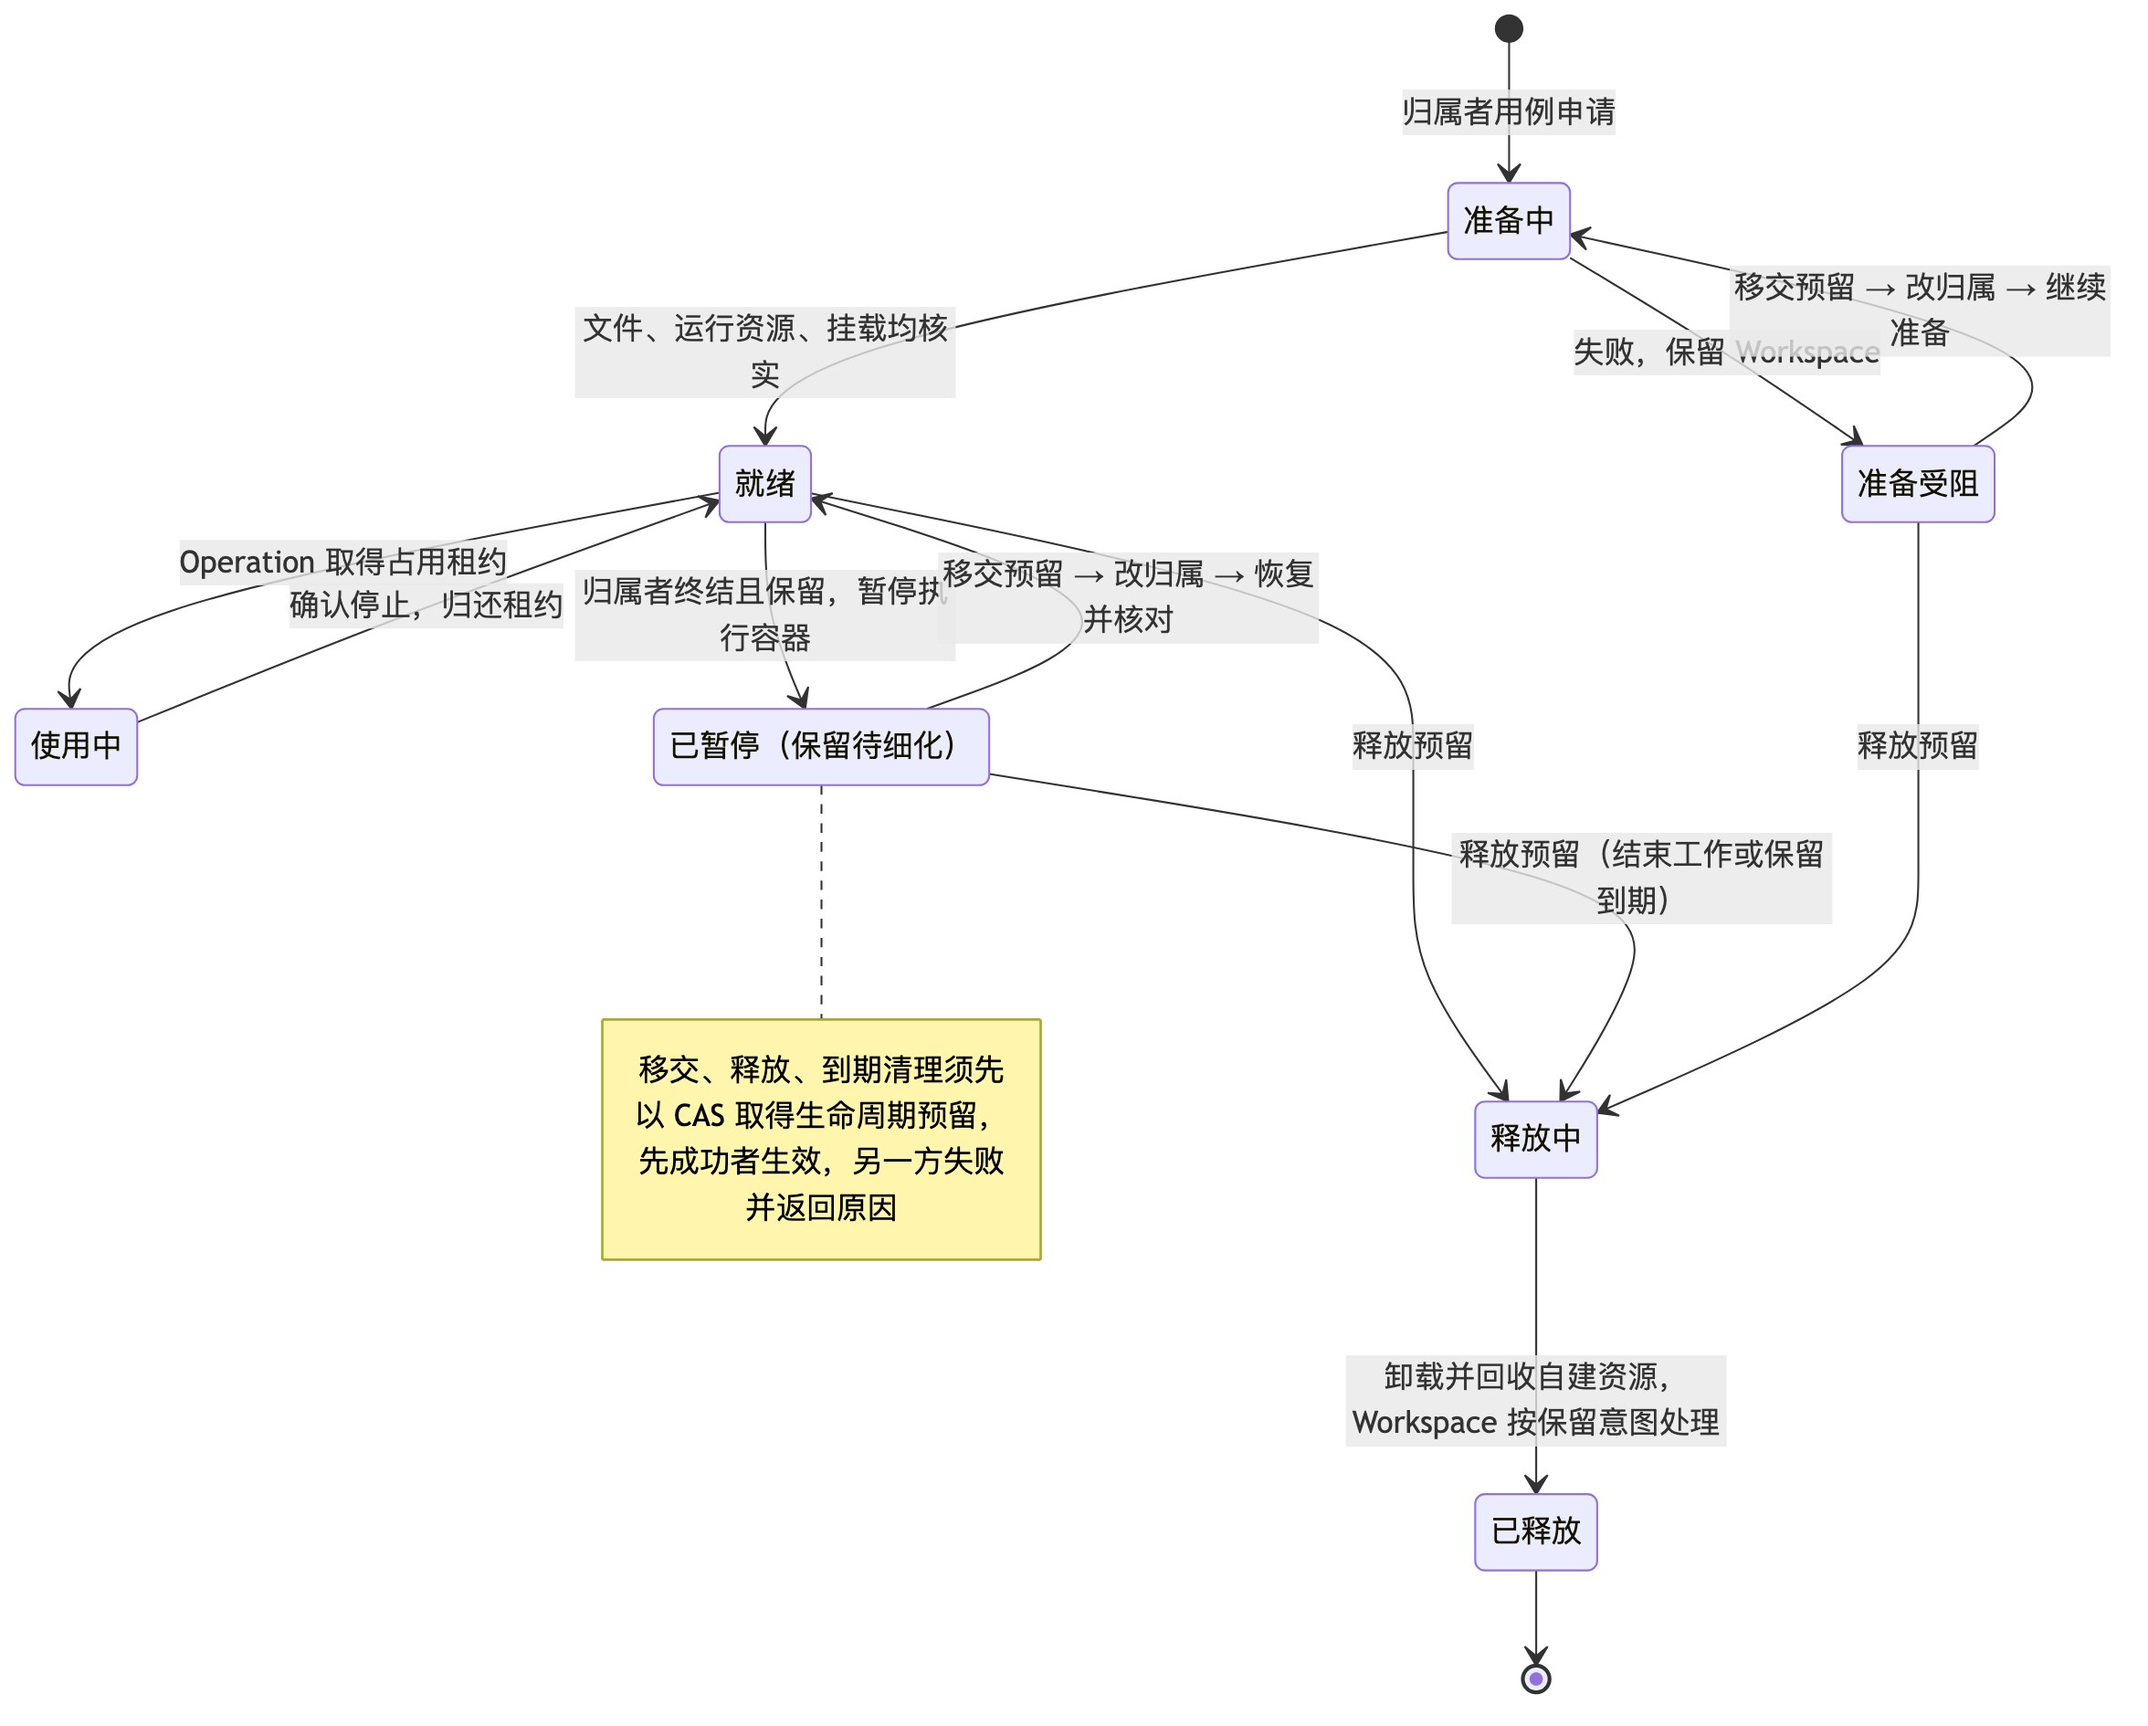
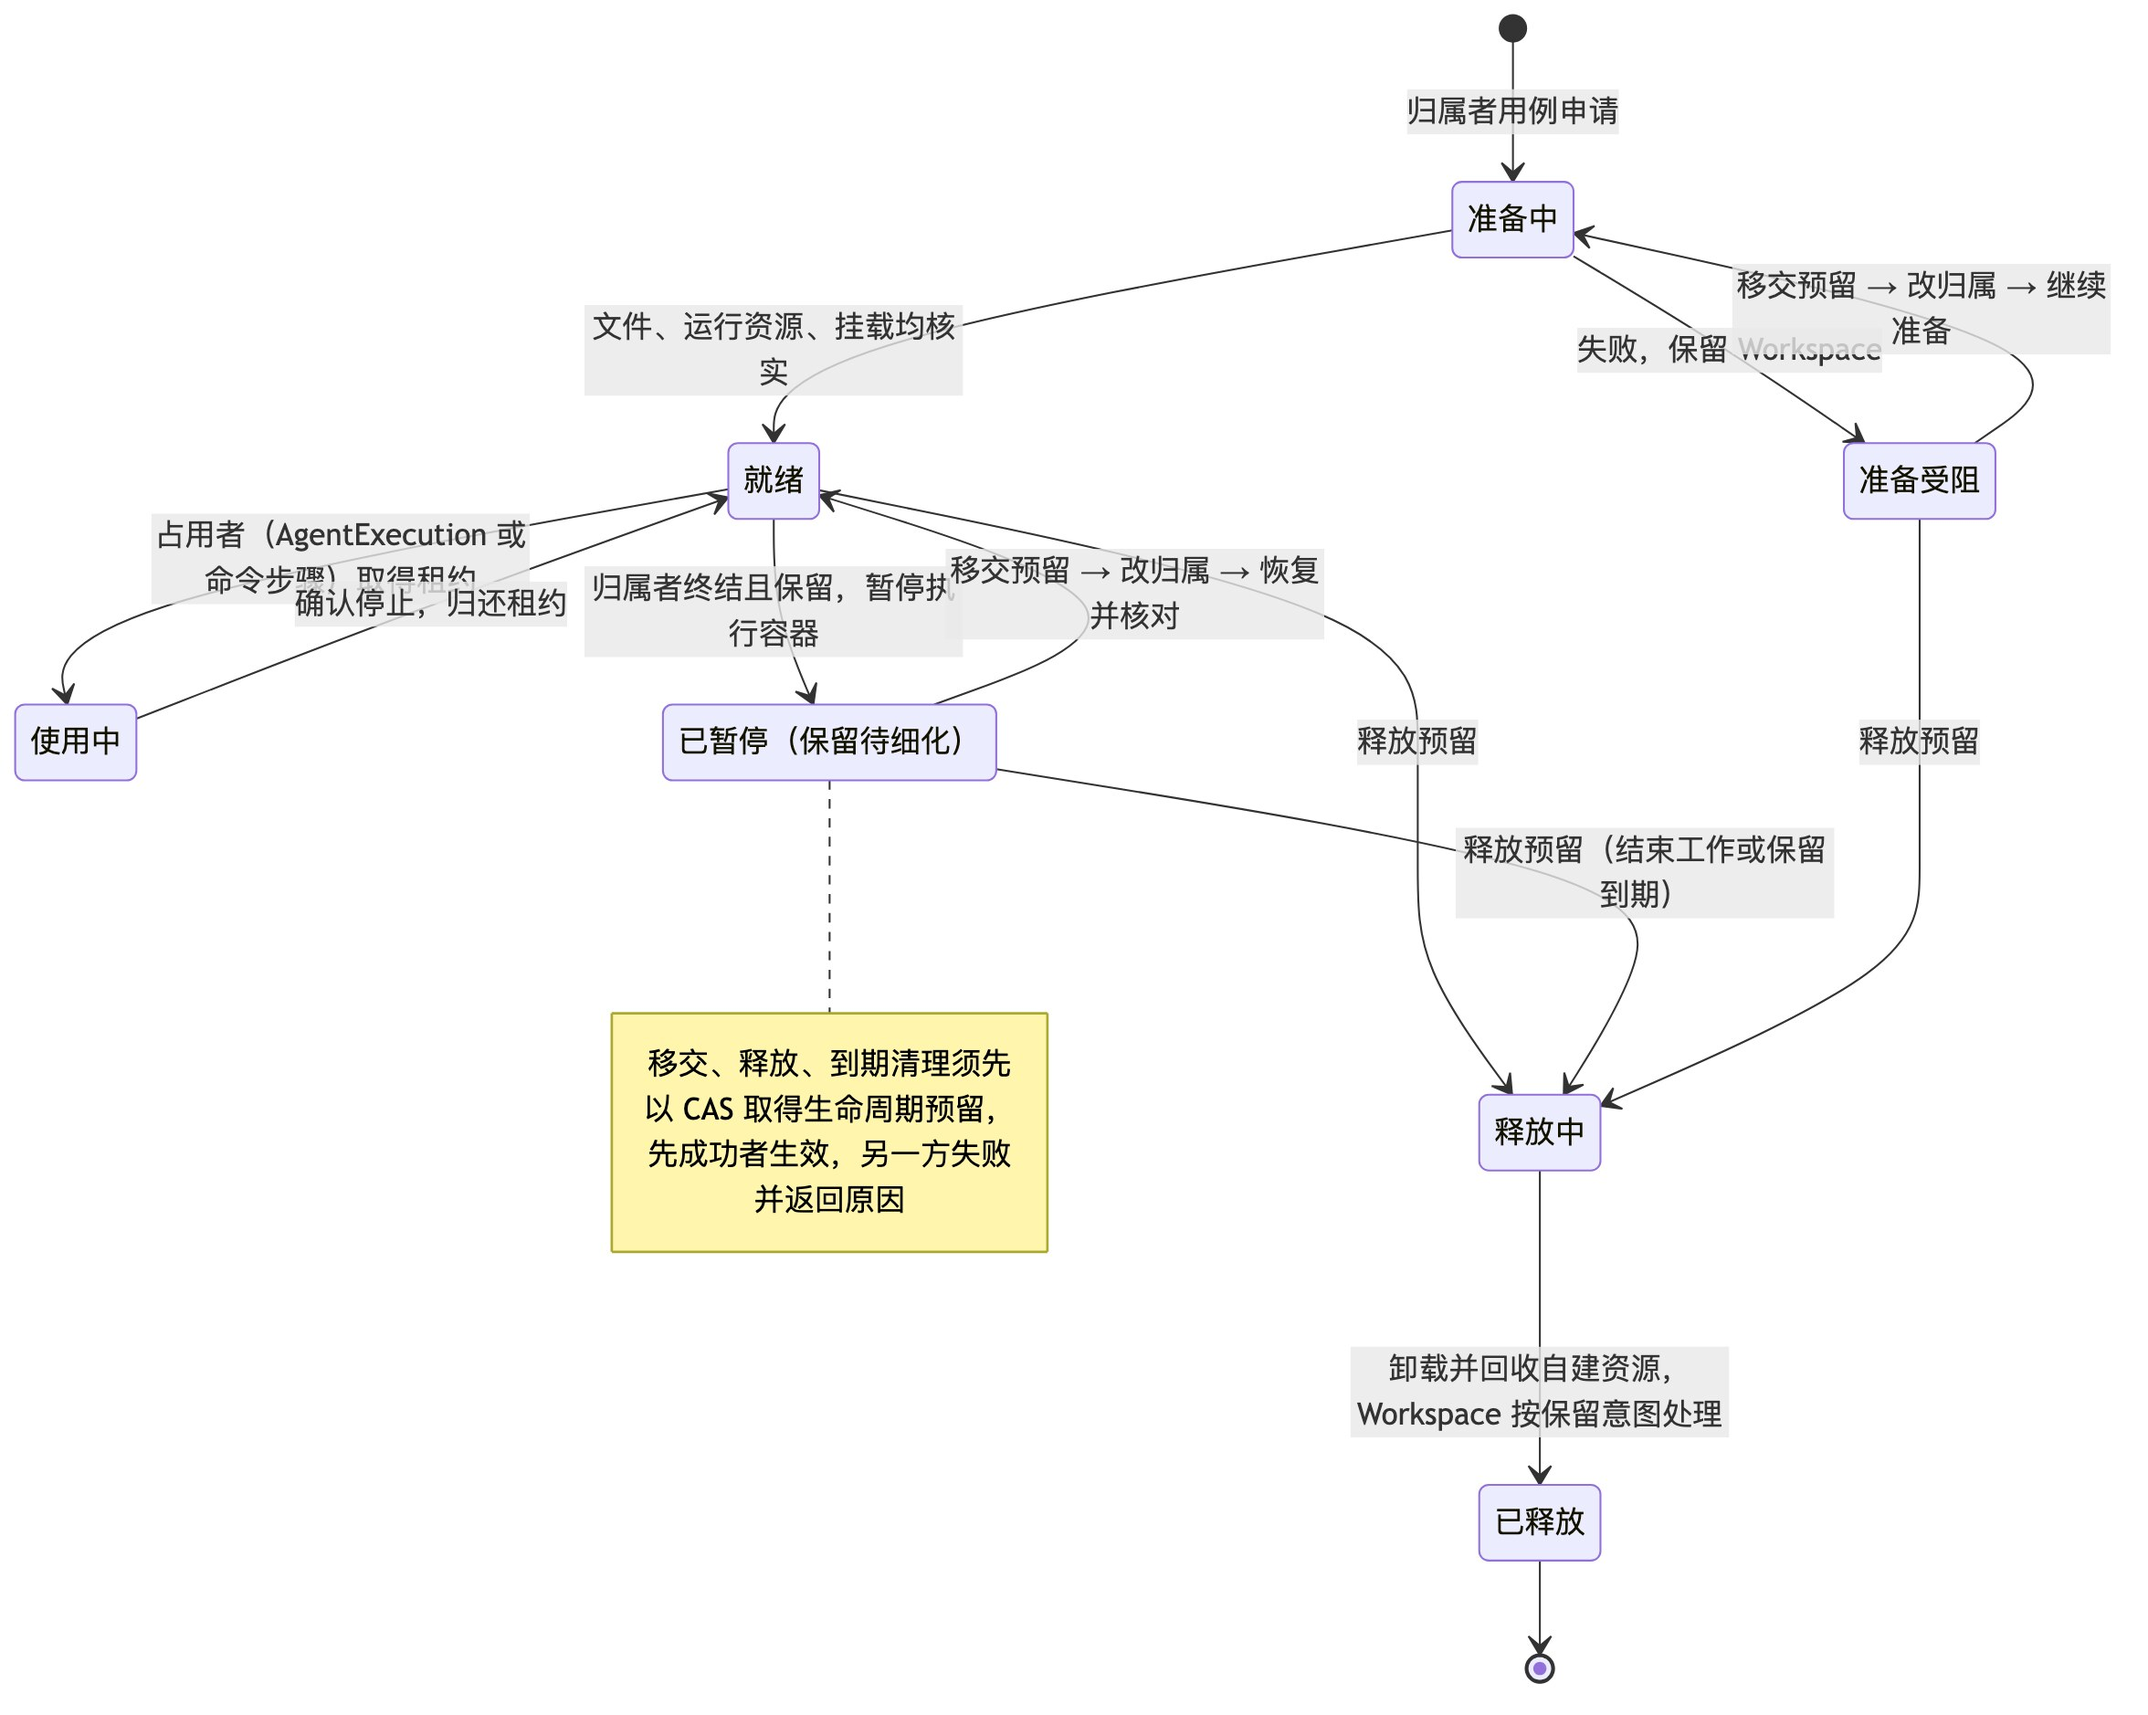
docs: model agent executions and command steps separately (D143)
Replace the merged Operation with an AgentExecution aggregate and command steps owned by GradingRecord. Shared occupancy rules move into a Sandbox occupant contract implemented by both, removing kind-conditional invariants and the name clash with existing operation identities.

diff --git a/docs/README.md b/docs/README.md
@@ -12,7 +12,7 @@ Grounds keeps a versioned ledger of requirements, issues, development runs, cand
 - [Documentation maintenance](documentation.md): responsibilities, reading routes, update triggers, and validation.
 - [Decisions](decisions/README.md): accepted directions, alternatives, and implementation status.
 - [通用 Agent 评测开发共识](decisions/0001-unified-agent-evaluation.md): living development guide for task, Agent, trajectory, artifact, grading, concurrency, and container boundaries; implementation pending.
-- [通用 Agent 执行与评测目标模型（R2）](decisions/0001-target-model.md): accepted consolidated target model (D129–D142) with aggregates, invariants, application modules and flows; read before the full decision record; implementation pending.
+- [通用 Agent 执行与评测目标模型（R2）](decisions/0001-target-model.md): accepted consolidated target model (D129–D143) with aggregates, invariants, application modules and flows; read before the full decision record; implementation pending.
 - [Grounds workflow skill](../plugins/grounds/skills/grounds/SKILL.md): agent workflow entry point.
 - [Agent documentation research](research/agent-documentation.md): historical evidence and proposals; follow the maintenance rules above for adopted policy.
 - [开源 Agent Artifact 源码调研](research/agent-artifact-design.md): pinned-source comparison of ADK, LangChain and smolagents; findings and proposals, not implemented policy.

diff --git a/docs/decisions/README.md b/docs/decisions/README.md
@@ -5,4 +5,4 @@ Decision status describes an accepted direction, not implementation completion. 
 | Decision | Status | Implementation |
 | --- | --- | --- |
 | [0001 — 通用 Agent 评测：开发共识与实施依据](0001-unified-agent-evaluation.md) | Accepted direction; maintained as discussion evolves | Pending; see gaps and acceptance targets in the record |
-| [0001 — 通用 Agent 执行与评测：目标模型（R2）](0001-target-model.md) | Accepted (D129–D142); current target model | Pending |
+| [0001 — 通用 Agent 执行与评测：目标模型（R2）](0001-target-model.md) | Accepted (D129–D143); current target model | Pending |
